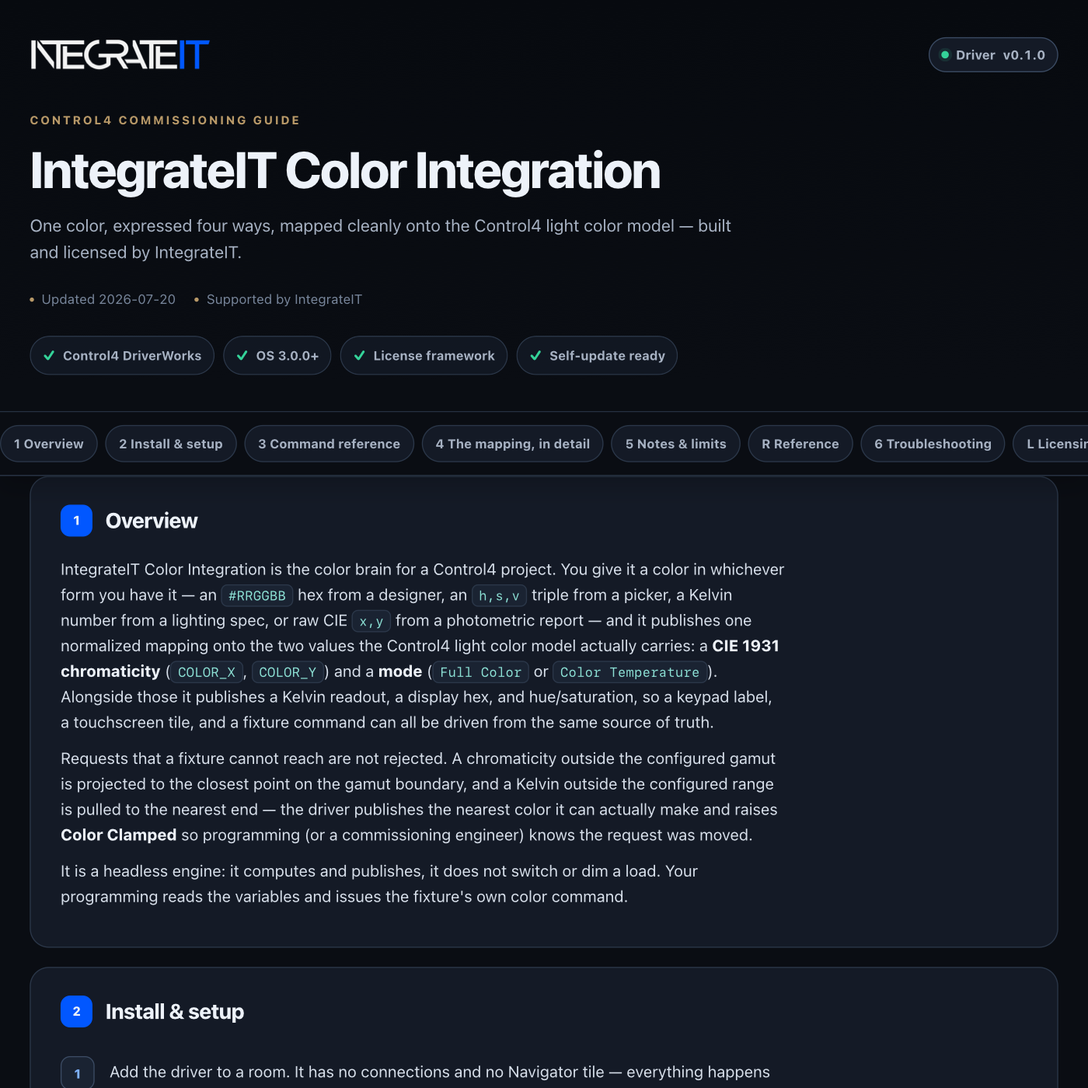
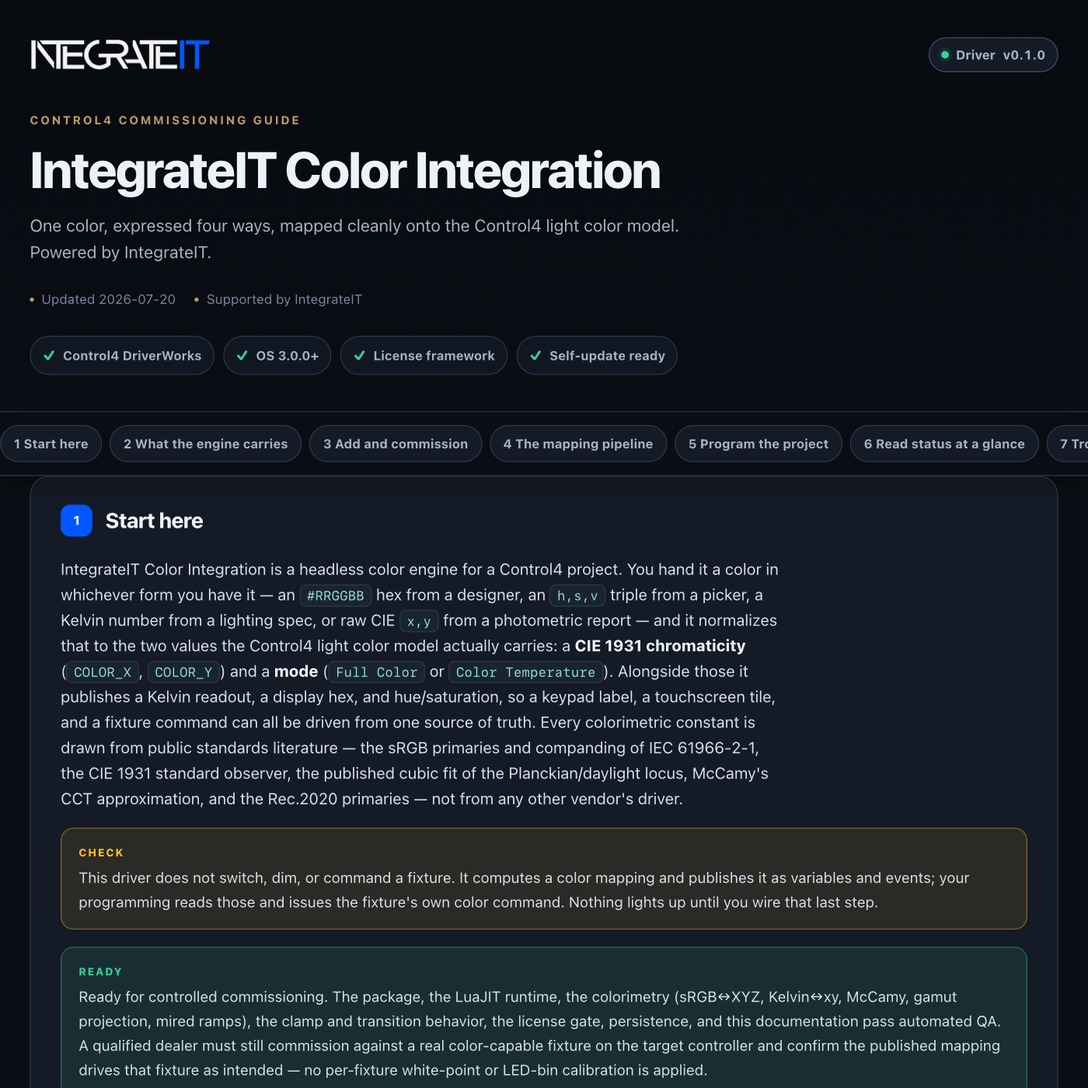
control4: publish driver channel (integrateit_color_integration 0.1.1)

diff --git a/control4/integrateit_color_integration/documentation.html b/control4/integrateit_color_integration/documentation.html
@@ -179,13 +179,13 @@ td code{white-space:normal}
     <div class="wrap">
       <div class="brandbar">
[1 lines of base64/hex data omitted]
-        <span class="version"><span class="word">Driver</span> v0.1.0</span>
+        <span class="version"><span class="word">Driver</span> v0.1.1</span>
       </div>
       <p class="eyebrow">Control4 commissioning guide</p>
       <h1>IntegrateIT Color Integration</h1>
-      <p class="sub">One color, expressed four ways, mapped cleanly onto the Control4 light color model — built and licensed by IntegrateIT.</p>
+      <p class="sub">One color, expressed four ways, mapped cleanly onto the Control4 light color model. Powered by IntegrateIT.</p>
       <div class="meta">
-        <span>Updated 2026-07-20</span>
+        <span>Updated 2026-07-26</span>
         <span>Supported by IntegrateIT</span>
       </div>
       <div class="readiness" aria-label="Driver capabilities">
@@ -198,69 +198,142 @@ td code{white-space:normal}
   </header>
 
   <div class="toc-wrap">
-    <nav class="toc wrap" aria-label="Documentation sections"><a href="#overview">1 Overview</a><a href="#install">2 Install &amp; setup</a><a href="#commands">3 Command reference</a><a href="#mapping">4 The mapping, in detail</a><a href="#notes">5 Notes &amp; limits</a><a href="#reference">R Reference</a><a href="#troubleshooting">6 Troubleshooting</a><a href="#licensing">L Licensing</a><a href="#updates">U Automatic updates</a><a href="#changelog">V Version history</a></nav>
+    <nav class="toc wrap" aria-label="Documentation sections"><a href="#overview">1 Start here</a><a href="#contract">2 What the engine carries</a><a href="#setup">3 Add and commission</a><a href="#mapping">4 The mapping pipeline</a><a href="#programming">5 Program the project</a><a href="#status">6 Read status at a glance</a><a href="#troubleshooting">7 Troubleshoot methodically</a><a href="#trust">8 Ownership, privacy, and licensing</a><a href="#reference">R Reference</a><a href="#licensing">L Licensing</a><a href="#updates">U Automatic updates</a><a href="#changelog">V Version history</a></nav>
   </div>
 
   <main class="wrap">
     <section class="card" id="overview" data-card="overview">
-  <h2><span class="n">1</span> Overview</h2>
-  <p>IntegrateIT Color Integration is the color brain for a Control4 project. You give it a color in whichever form you have it — an <code>#RRGGBB</code> hex from a designer, an <code>h,s,v</code> triple from a picker, a Kelvin number from a lighting spec, or raw CIE <code>x,y</code> from a photometric report — and it publishes one normalized mapping onto the two values the Control4 light color model actually carries: a <b>CIE 1931 chromaticity</b> (<code>COLOR_X</code>, <code>COLOR_Y</code>) and a <b>mode</b> (<code>Full Color</code> or <code>Color Temperature</code>). Alongside those it publishes a Kelvin readout, a display hex, and hue/saturation, so a keypad label, a touchscreen tile, and a fixture command can all be driven from the same source of truth.</p>
-  <p>Requests that a fixture cannot reach are not rejected. A chromaticity outside the configured gamut is projected to the closest point on the gamut boundary, and a Kelvin outside the configured range is pulled to the nearest end — the driver publishes the nearest color it can actually make and raises <b>Color Clamped</b> so programming (or a commissioning engineer) knows the request was moved.</p>
-  <p>It is a headless engine: it computes and publishes, it does not switch or dim a load. Your programming reads the variables and issues the fixture's own color command.</p>
+  <h2><span class="n">1</span> Start here</h2>
+  <p>IntegrateIT Color Integration is a headless color engine for a Control4 project. You hand it a color in whichever form you have it — an <code>#RRGGBB</code> hex from a designer, an <code>h,s,v</code> triple from a picker, a Kelvin number from a lighting spec, or raw CIE <code>x,y</code> from a photometric report — and it normalizes that to the two values the Control4 light color model actually carries: a <b>CIE 1931 chromaticity</b> (<code>COLOR_X</code>, <code>COLOR_Y</code>) and a <b>mode</b> (<code>Full Color</code> or <code>Color Temperature</code>). Alongside those it publishes a Kelvin readout, a display hex, and hue/saturation, so a keypad label, a touchscreen tile, and a fixture command can all be driven from one source of truth. Every colorimetric constant is drawn from public standards literature — the sRGB primaries and companding of IEC 61966-2-1, the CIE 1931 standard observer, the published cubic fit of the Planckian/daylight locus, McCamy's CCT approximation, and the Rec.2020 primaries — not from any other vendor's driver.</p>
+  <div class="note warn">This driver does not switch, dim, or command a fixture. It computes a color mapping and publishes it as variables and events; your programming reads those and issues the fixture's own color command. Nothing lights up until you wire that last step.</div>
+  <div class="note good">Ready for controlled commissioning. The package, the LuaJIT runtime, the colorimetry (sRGB↔XYZ, Kelvin↔xy, McCamy, gamut projection, mired ramps), the clamp and transition behavior, the license gate, persistence, and this documentation pass automated QA. A qualified dealer must still commission against a real color-capable fixture on the target controller and confirm the published mapping drives that fixture as intended — no per-fixture white-point or LED-bin calibration is applied.</div>
+  <p><b>What you get</b></p>
+  <ul>
+    <li>Four input forms — RGB hex, HSV, Kelvin, or CIE 1931 xy — normalized to one canonical color</li>
+    <li>The Control4 light color parameters published as variables: <code>COLOR_X</code> / <code>COLOR_Y</code> chromaticity plus a <code>Full Color</code> or <code>Color Temperature</code> mode</li>
+    <li>Gamut mapping into <code>sRGB</code>, a wide (Rec.2020-style) triangle, or <code>Clamp Only</code>, with out-of-gamut requests projected to the nearest reachable point instead of dropped</li>
+    <li>A configurable Kelvin floor and ceiling so a fixture is never asked for a white it cannot make</li>
+    <li>Bounded transitions (max 120 published steps) that ramp color-temperature pairs in mired so the fade reads even, and everything else linearly in xy</li>
+    <li>Warmer / Cooler Kelvin nudges for color-temperature scenes</li>
+    <li>The last applied color persisted across a controller reboot and republished silently at boot</li>
+    <li>MAC-locked IntegrateIT licensing with lenient or strict enforcement</li>
+  </ul>
 </section>
 
-<section class="card" id="install" data-card="install">
-  <h2><span class="n">2</span> Install &amp; setup</h2>
+<section class="card" id="contract" data-card="contract">
+  <h2><span class="n">2</span> What the engine carries</h2>
+  <p>The engine carries <b>chromaticity, not brightness</b>, and it never invents a color it cannot produce.</p>
+  <ul>
+    <li><code>COLOR_RGB</code> is the brightest RGB with the published chromaticity — a readout for labels and tiles, not a light level. Keep level on your dimmer; feeding <code>COLOR_RGB</code> to a load as a brightness would wash the color out.</li>
+    <li>A request the configuration cannot reach is <b>moved, never rejected</b>. A chromaticity outside the selected gamut is projected to the closest point on the gamut boundary; a Kelvin outside <code>Minimum Kelvin</code>…<code>Maximum Kelvin</code> is pulled to the nearest end. Either way the driver publishes the nearest color it can actually make and raises <b>Color Clamped</b> with <code>COLOR_CLAMPED = 1</code>, so programming knows the request was moved.</li>
+    <li><code>COLOR_KELVIN</code> is exact for a Kelvin input and <b>approximated</b> for every other input, derived from the mapped chromaticity by McCamy's fit. Round-tripping a Kelvin value through xy and back can differ by a few kelvin, and correlated color temperature is only meaningful near the Planckian locus — a saturated blue will report a number, and that number means very little. Anything claiming a precise Kelvin for an arbitrary color would be faking it.</li>
+    <li>Unreadable input is a <b>no-op</b>. The driver raises <b>Invalid Color Input</b>, writes the reason to <code>Status</code>, and leaves the published color exactly where it was — a typo in Composer never blanks a lit room.</li>
+    <li><code>Wide</code> is a generic Rec.2020-style triangle, not a measured profile of your fixture. With real measured primaries, <code>Clamp Only</code> plus your own programming may map more faithfully.</li>
+  </ul>
+</section>
+
+<section class="card" id="setup" data-card="setup">
+  <h2><span class="n">3</span> Add and commission</h2>
+  <p>The driver has no connections and no Navigator tile — everything happens through properties, variables, and events.</p>
   <ol class="steps">
-    <li>Add the driver to a room. It has no connections and no Navigator tile — everything happens through properties, variables, and events.</li>
-    <li>Set <code>Color Input Mode</code> to the form you will write colors in, and put the first color in <code>Color Input</code>: - <b>RGB Hex</b> — <code>#FF8C42</code> (the leading <code>#</code> is optional) - <b>HSV</b> — <code>24,74,100</code> (hue 0-360, saturation 0-100, value 0-100) - <b>Kelvin</b> — <code>2700</code> (a trailing <code>K</code> is accepted) - <b>CIE xy</b> — <code>0.4578,0.4101</code></li>
-    <li>Set <code>Gamut</code> to the triangle your fixtures live in. <code>sRGB</code> suits most LED tape and RGB fixtures; <code>Wide</code> uses Rec.2020-style primaries for wide-gamut engines; <code>Clamp Only</code> skips the triangle entirely and just keeps x and y inside 0-1.</li>
-    <li>Set <code>Minimum Kelvin</code> / <code>Maximum Kelvin</code> to what the fixture can actually produce. Tunable-white tape is often 2200-6500K; a fixed-white fixture that only claims 2700K should have both ends set near it.</li>
-    <li>Set <code>Transition Time (ms)</code> and <code>Transition Step (ms)</code>. 1000 ms in 200 ms steps is a good default: five published steps per fade. The driver lengthens the step interval by itself if your numbers would ask for more than 120 steps.</li>
-    <li>Leave <code>Apply On Input Change</code> on <b>Yes</b> while you commission — every edit to <code>Color Input</code> applies immediately. Set it to <b>No</b> when programming should own the timing and call <b>Apply Color</b> itself.</li>
-    <li>In Programming, react to <b>Color Applied</b> and read <code>COLOR_X</code> / <code>COLOR_Y</code> / <code>COLOR_MODE</code> (plus <code>COLOR_KELVIN</code> for tunable white), then send those to your fixture with its own color command.</li>
+    <li>Add <b>IntegrateIT Color Integration</b> to a room.</li>
+    <li>Set <b>Color Input Mode</b> to the form you will write colors in, and put the first color in <b>Color Input</b>: - <b>RGB Hex</b> — <code>#FF8C42</code> (the leading <code>#</code> is optional) - <b>HSV</b> — <code>24,74,100</code> (hue 0-360, saturation 0-100, value 0-100) - <b>Kelvin</b> — <code>2700</code> (a trailing <code>K</code> is accepted) - <b>CIE xy</b> — <code>0.4578,0.4101</code></li>
+    <li>Set <b>Gamut</b> to the triangle your fixtures live in. <code>sRGB</code> suits most LED tape and RGB fixtures; <code>Wide</code> uses Rec.2020-style primaries for wide-gamut engines; <code>Clamp Only</code> skips the triangle and holds x and y on the CIE simplex.</li>
+    <li>Set <b>Minimum Kelvin</b> / <b>Maximum Kelvin</b> to what the fixture can actually produce. Tunable-white tape is often 2200-6500K; a fixed-white fixture should have both ends set near its rating. Invert the two by accident and the driver swaps them rather than clamping every request onto one value.</li>
+    <li>Set <b>Transition Time (ms)</b> and <b>Transition Step (ms)</b>. 1000 ms in 200 ms steps is a good default — five published steps per fade. The driver lengthens the step interval itself if your numbers would ask for more than 120 steps.</li>
+    <li>Leave <b>Apply On Input Change</b> on <code>Yes</code> while you commission so every edit to <b>Color Input</b> applies immediately. Set it to <code>No</code> when programming should own the timing and call <b>Apply Color</b> itself.</li>
+    <li>Fire <b>Apply Color</b>, then confirm <b>Current Mapping</b> fills in and <code>COLOR_X</code> / <code>COLOR_Y</code> / <code>COLOR_MODE</code> update. Wire your fixture's color command to the <b>Color Applied</b> event and watch the light follow.</li>
   </ol>
-</section>
-
-<section class="card" id="commands" data-card="commands">
-  <h2><span class="n">3</span> Command reference</h2>
-  <table>
-    <tr><th>Action</th><th>What it does</th></tr>
-    <tr><td>Apply Color</td><td>Map <code>Color Input</code> and ramp to it over <code>Transition Time (ms)</code>.</td></tr>
-    <tr><td>Apply Color Immediately</td><td>Same mapping, published in one step with no fade.</td></tr>
-    <tr><td>Cancel Transition</td><td>Stop a running fade and leave the color on the step it reached.</td></tr>
-    <tr><td>Warmer / Cooler</td><td>Move the published color along the Kelvin axis by <code>Kelvin Nudge Step</code>, switching the mapping to Color Temperature.</td></tr>
-    <tr><td>Print Configuration</td><td>Print the input, gamut, Kelvin range, transition settings, and the current mapping to the Lua output window.</td></tr>
-  </table>
-  <p><b>Events:</b> *Color Applied*, *Transition Started*, *Transition Complete*, *Color Clamped*, *Invalid Color Input*. <b>Variables:</b> <code>COLOR_X</code>, <code>COLOR_Y</code>, <code>COLOR_MODE</code>, <code>COLOR_KELVIN</code>, <code>COLOR_RGB</code>, <code>COLOR_HUE</code>, <code>COLOR_SATURATION</code>, <code>COLOR_CLAMPED</code>, <code>TRANSITION_ACTIVE</code>.</p>
 </section>
 
 <section class="card" id="mapping" data-card="mapping">
-  <h2><span class="n">4</span> The mapping, in detail</h2>
-  <p>Every constant in the pipeline comes from public standards literature — the sRGB (IEC 61966-2-1) primaries and companding curve, the CIE 1931 standard observer, the published piecewise cubic fit of the Planckian/daylight locus, McCamy's CCT approximation, and the Rec.2020 primaries. Nothing here depends on any other manufacturer's driver conventions.</p>
+  <h2><span class="n">4</span> The mapping pipeline</h2>
+  <p>Every apply runs the same five stages; understanding them explains any clamp or fade you see in Debug.</p>
   <ol class="steps">
-    <li><b>Parse.</b> The input string is read in the selected mode. Hex and HSV become 0-1 RGB; Kelvin is clamped into <code>Minimum Kelvin</code>…<code>Maximum Kelvin</code>; CIE xy is taken as written.</li>
-    <li><b>To xy.</b> RGB is inverse-companded to linear light, multiplied through the sRGB D65 matrix into CIE XYZ, and normalized to <code>x = X/(X+Y+Z)</code>, <code>y = Y/(X+Y+Z)</code>. Kelvin goes straight to xy on the locus fit.</li>
-    <li><b>Gamut.</b> The point is tested against the three primaries. If it is outside, it is projected to the closest point on the nearest triangle edge — the shortest move that reaches a producible color — and <code>COLOR_CLAMPED</code> is set with the <b>Color Clamped</b> event.</li>
+    <li><b>Parse.</b> The input string is read in the selected mode. Hex and HSV become 0-1 RGB; a Kelvin value is clamped into <code>Minimum Kelvin</code>…<code>Maximum Kelvin</code>; CIE xy is taken as written.</li>
+    <li><b>To xy.</b> RGB is inverse-companded to linear light, multiplied through the sRGB/D65 matrix into CIE XYZ, and normalized to <code>x = X/(X+Y+Z)</code>, <code>y = Y/(X+Y+Z)</code>. A Kelvin value goes straight to xy on the locus fit. Pure black has no chromaticity, so it reports the D65 white point rather than dividing by zero.</li>
+    <li><b>Gamut.</b> The point is tested against the three primaries. If it is outside, it is projected to the closest point on the nearest triangle edge — the shortest move to a producible color — and <code>COLOR_CLAMPED</code> is set with <b>Color Clamped</b>. <code>Clamp Only</code> instead holds the point on the CIE simplex (<code>x ≥ 0</code>, <code>y ≥ 0</code>, <code>x + y ≤ 1</code>); a coordinate past <code>x + y = 1</code> is projected onto that edge, because it is not a real color at all.</li>
     <li><b>Mode and Kelvin.</b> A Kelvin input publishes <code>Color Temperature</code> mode and its (clamped) Kelvin. Hex, HSV, and xy inputs publish <code>Full Color</code> mode with a Kelvin readout derived from the mapped chromaticity via McCamy.</li>
-    <li><b>Transition.</b> Two color-temperature endpoints interpolate in <b>mired</b> (reciprocal megakelvin), which is the scale color temperature spaces evenly on, so a 2700K → 6500K fade does not bunch up at the cool end. Every other pair interpolates linearly in xy. The final step always publishes the exact target rather than an interpolation of it.</li>
+    <li><b>Transition.</b> Two color-temperature endpoints interpolate in <b>mired</b> (reciprocal megakelvin), the scale color temperature is even on, so a 2700K → 6500K fade does not bunch at the cool end. Every other pair interpolates linearly in xy. The final step always publishes the exact target, never an interpolation of it.</li>
   </ol>
+  <p>Editing <b>Gamut</b>, <b>Minimum Kelvin</b>, or <b>Maximum Kelvin</b> re-maps the already-published color through the new constraints instantly and without a fade. If the re-map lands on the same color, nothing is published and no event fires. A live edit made mid-fade re-aims both ramp endpoints through the new constraints rather than abandoning the fade, so the ramp still delivers the requested color.</p>
 </section>
 
-<section class="card" id="notes" data-card="notes">
-  <h2><span class="n">5</span> Notes &amp; limits</h2>
+<section class="card" id="programming" data-card="programming">
+  <h2><span class="n">5</span> Program the project</h2>
+  <table>
+    <tr><th>Action</th><th>What it does</th></tr>
+    <tr><td>Apply Color</td><td>Map <b>Color Input</b> and ramp to it over <b>Transition Time (ms)</b></td></tr>
+    <tr><td>Apply Color Immediately</td><td>Same mapping, published in one step with no fade</td></tr>
+    <tr><td>Cancel Transition</td><td>Stop a running fade and hold the color on the step it reached</td></tr>
+    <tr><td>Warmer / Cooler</td><td>Move the published color along the Kelvin axis by <b>Kelvin Nudge Step</b>, switching to <code>Color Temperature</code> mode</td></tr>
+    <tr><td>Print Configuration</td><td>Print the input, gamut, Kelvin range, transition settings, and current mapping to the Lua output window</td></tr>
+  </table>
+  <table>
+    <tr><th>Event</th><th>Fires when</th></tr>
+    <tr><td>Color Applied</td><td>A color finished publishing; the <code>COLOR_</code> variables hold the final mapping</td></tr>
+    <tr><td>Transition Started</td><td>A ramp to a new color began</td></tr>
+    <tr><td>Transition Complete</td><td>A ramp reached its target color</td></tr>
+    <tr><td>Color Clamped</td><td>The request fell outside the gamut or Kelvin range and was mapped to the nearest reachable color</td></tr>
+    <tr><td>Invalid Color Input</td><td><b>Color Input</b> could not be parsed in the selected mode; nothing was published</td></tr>
+  </table>
+  <table>
+    <tr><th>Variable</th><th>Type</th><th>Meaning</th></tr>
+    <tr><td><code>COLOR_X</code> / <code>COLOR_Y</code></td><td>STRING</td><td>The CIE 1931 chromaticity to send to the fixture, 4 decimals</td></tr>
+    <tr><td><code>COLOR_MODE</code></td><td>STRING</td><td><code>Full Color</code> or <code>Color Temperature</code></td></tr>
+    <tr><td><code>COLOR_KELVIN</code></td><td>NUMBER</td><td>Correlated color temperature — exact for Kelvin inputs, McCamy-approximated otherwise</td></tr>
+    <tr><td><code>COLOR_RGB</code></td><td>STRING</td><td>Display hex at full relative luminance (a readout, not a level)</td></tr>
+    <tr><td><code>COLOR_HUE</code> / <code>COLOR_SATURATION</code></td><td>NUMBER</td><td>Hue 0-359 and saturation 0-100 of the display color</td></tr>
+    <tr><td><code>COLOR_CLAMPED</code></td><td>BOOL</td><td>The published color was moved to reach a producible one</td></tr>
+    <tr><td><code>TRANSITION_ACTIVE</code></td><td>BOOL</td><td>A ramp is publishing steps right now</td></tr>
+  </table>
+  <p>Recipes:</p>
   <ul>
-    <li>The engine carries <b>chromaticity, not brightness</b>. <code>COLOR_RGB</code> is the brightest RGB with the published chromaticity — a readout for labels and tiles, not a dim level. Keep level on your dimmer.</li>
-    <li>Kelvin and chromaticity are not perfectly reversible. Feeding <code>2700</code> in and reading <code>COLOR_KELVIN</code> back can differ by a few kelvin, and correlated color temperature is only meaningful for colors near the Planckian locus — a saturated blue will report a number, and that number means very little.</li>
-    <li>Unreadable input is a no-op: the driver raises <b>Invalid Color Input</b>, writes the reason to <code>Status</code>, and leaves the published color exactly where it was. A typo in Composer never blanks a lit room.</li>
-    <li>Editing <code>Gamut</code>, <code>Minimum Kelvin</code>, or <code>Maximum Kelvin</code> re-maps the already-published color through the new constraints, instantly and without a fade. If the re-map lands on the same color, nothing is published and no event fires.</li>
-    <li><b>Cancel Transition</b> leaves the color on the step the fade reached, which is a real, in-gamut color. It does not snap to either endpoint.</li>
-    <li>The last applied color is written to persistent storage and republished on boot when <code>Restore Last Color on Boot</code> is <b>Yes</b>. The restore fires no events — programming bound to <b>Color Applied</b> does not re-run on every controller restart.</li>
-    <li><code>Wide</code> is a generic Rec.2020-style triangle, not a measured profile of your fixture. If you have real measured primaries, <code>Clamp Only</code> plus your own programming may map more faithfully.</li>
+    <li><b>Warm scene:</b> set <b>Color Input Mode</b> to <code>Kelvin</code>, write <code>2700</code> to <b>Color Input</b>, fire <b>Apply Color</b>. On <b>Color Applied</b>, read <code>COLOR_X</code> / <code>COLOR_Y</code> / <code>COLOR_MODE</code> / <code>COLOR_KELVIN</code> and send them with the fixture's own color command.</li>
+    <li><b>Keypad warmer/cooler:</b> bind two keypad buttons to the <b>Warmer</b> and <b>Cooler</b> actions and label the keypad from <code>COLOR_KELVIN</code>. Each press nudges by <b>Kelvin Nudge Step</b> and re-fires <b>Color Applied</b>.</li>
+    <li><b>Touchscreen swatch:</b> with <b>Apply On Input Change</b> at <code>Yes</code> and mode <code>RGB Hex</code>, write the picked hex to <b>Color Input</b>; the tile reflects <code>COLOR_RGB</code> and a "not reachable" badge can key off <code>COLOR_CLAMPED</code>.</li>
   </ul>
+  <p>Every control path is gated by the license: under Strict enforcement an unlicensed controller publishes no color at all. Lenient mode allows commissioning while <code>License Status</code> carries the nag.</p>
+</section>
+
+<section class="card" id="status" data-card="status">
+  <h2><span class="n">6</span> Read status at a glance</h2>
+  <table>
+    <tr><th>Readout</th><th>Means</th><th>Automating on it</th></tr>
+    <tr><td><code>Current Color</code></td><td>Published hex plus mode</td><td>Display only</td></tr>
+    <tr><td><code>Current Mapping</code></td><td>Published xy, mode, and Kelvin</td><td>Display only</td></tr>
+    <tr><td><code>Gamut Status</code></td><td><code>In gamut (&lt;gamut&gt;)</code> or <code>Clamped to the &lt;gamut&gt; boundary / Kelvin range</code></td><td>Human-readable mirror of <code>COLOR_CLAMPED</code></td></tr>
+    <tr><td><code>COLOR_MODE</code></td><td><code>Full Color</code> or <code>Color Temperature</code></td><td>Selects which fixture color command to send</td></tr>
+    <tr><td><code>COLOR_X</code> / <code>COLOR_Y</code></td><td>The chromaticity to send</td><td>The two values a fixture color command needs</td></tr>
+    <tr><td><code>COLOR_KELVIN</code></td><td>The published CCT</td><td>Trust it only near the locus (Kelvin inputs, or whites)</td></tr>
+    <tr><td><code>COLOR_CLAMPED</code></td><td><code>1</code> = the published color is not the exact request</td><td>Gate "was the request reachable?" logic on this</td></tr>
+    <tr><td><code>TRANSITION_ACTIVE</code></td><td><code>1</code> = a fade is running</td><td>Wait for <b>Transition Complete</b> before reading a settled color</td></tr>
+  </table>
+  <p><b>Cancel Transition</b> leaves the color on the step the fade reached, which is a real, in-gamut color — it does not snap to either endpoint. The last applied color is written to persistent storage and, when <b>Restore Last Color on Boot</b> is <code>Yes</code>, republished on boot; that restore fires no events, so programming bound to <b>Color Applied</b> does not re-run on every controller restart. A restore is re-mapped through whatever gamut and Kelvin window are in force now, so a color saved under a wider setting still reports its true clamp state.</p>
+</section>
+
+<section class="card" id="troubleshooting" data-card="troubleshooting">
+  <h2><span class="n">7</span> Troubleshoot methodically</h2>
+  <table>
+    <tr><th>Symptom</th><th>Likely cause</th><th>Fix</th></tr>
+    <tr><td>Nothing is published at all</td><td>Strict enforcement without a key</td><td>Check <code>License Status</code>; Lenient mode keeps the engine running without a key</td></tr>
+    <tr><td><code>Status</code> says Invalid Color Input</td><td>The string does not match <b>Color Input Mode</b></td><td>Match the form: <code>#RRGGBB</code>, <code>h,s,v</code>, a bare Kelvin integer, or <code>x,y</code></td></tr>
+    <tr><td>Every color reports clamped</td><td>Gamut too small for the requests, or an inverted Kelvin range</td><td>Try <code>Wide</code> or <code>Clamp Only</code>; confirm <b>Minimum Kelvin</b> is below <b>Maximum Kelvin</b></td></tr>
+    <tr><td>Warm and cool ends look identical</td><td><b>Minimum Kelvin</b> and <b>Maximum Kelvin</b> are close together</td><td>Widen the range to what the fixture really produces</td></tr>
+    <tr><td>The fade looks like a jump</td><td>Programming applies the color only on <b>Color Applied</b></td><td>React to the variables changing each step, or bind the fixture command to fire per published step</td></tr>
+    <tr><td><code>COLOR_KELVIN</code> looks wrong for a vivid color</td><td>CCT is meaningless off the Planckian locus</td><td>Read chromaticity (<code>COLOR_X</code> / <code>COLOR_Y</code>) for saturated colors, not Kelvin</td></tr>
+  </table>
+  <div class="note">Turn on <b>Debug Mode → Print</b>, then run <b>Print Configuration</b> to dump the input, gamut, Kelvin range, transition math, and current mapping to the Lua output window. If a fixture still will not track the mapping, contact support@integrateit.tech · (913) 804-7575.</div>
+</section>
+
+<section class="card" id="trust" data-card="trust">
+  <h2><span class="n">8</span> Ownership, privacy, and licensing</h2>
+  <p>This package is an original IntegrateIT implementation. The colorimetry is built entirely from public standards literature (sRGB / IEC 61966-2-1, the CIE 1931 observer, the published Kelvin-to-xy cubic, McCamy's CCT approximation, Rec.2020 primaries); the property, variable, action, and event names are IntegrateIT's own. It does not bundle another vendor's runtime, source code, brand assets, or license. Driver engineering, Control4 integration, documentation, QA, licensing, updates, and support are provided by IntegrateIT.</p>
+  <p>The color engine is pure on-controller computation: your colors, mapping, and project data never leave the controller. The shared IntegrateIT license and update services use the controller identity, driver slug, version, configured license key, and update channel as documented in the reference below; the license key is never written to the log.</p>
+  <p>Lenient mode allows commissioning without an activated key and keeps <code>License Status</code> visible. Strict mode blocks every color control path until the Ops Portal has minted and validated a key for that controller. Installing this package does not itself mint or activate a controller license.</p>
 <section class="card" id="reference" data-card="reference">
   <h2><span class="n">R</span> Reference</h2>
-  <p>Generated from the driver manifest at build time — always matches this build (v0.1.0).</p>
+  <p>Generated from the driver manifest at build time — always matches this build (v0.1.1).</p>
   <h3>Properties</h3>
   <table>
     <tr><th>Property</th><th>Type</th><th>Default</th><th>Description</th></tr>
@@ -319,19 +392,6 @@ td code{white-space:normal}
   </table>
 </section>
 </section>
-
-<section class="card" id="troubleshooting" data-card="troubleshooting">
-  <h2><span class="n">6</span> Troubleshooting</h2>
-  <table>
-    <tr><th>Symptom</th><th>Likely cause</th><th>Fix</th></tr>
-    <tr><td><code>Status</code> says Invalid Color Input</td><td>The string does not match the selected <code>Color Input Mode</code></td><td>Check the form: <code>#RRGGBB</code>, <code>h,s,v</code>, a bare Kelvin integer, or <code>x,y</code>.</td></tr>
-    <tr><td>Every color reports clamped</td><td>Gamut too small for the requests, or an inverted Kelvin range</td><td>Try <code>Wide</code> or <code>Clamp Only</code>; confirm <code>Minimum Kelvin</code> is below <code>Maximum Kelvin</code>.</td></tr>
-    <tr><td>Warm and cool ends look identical</td><td><code>Minimum Kelvin</code> and <code>Maximum Kelvin</code> are close together</td><td>Widen the range to what the fixture really produces.</td></tr>
-    <tr><td>The fade looks like a jump</td><td>Programming applies the color only on <b>Color Applied</b></td><td>React to the variables changing (or poll on your own timer) so each published step reaches the fixture.</td></tr>
-    <tr><td>Nothing is published at all</td><td>Strict enforcement + unlicensed</td><td>Check <code>License Status</code>; Lenient mode keeps control enabled without a key.</td></tr>
-  </table>
-  <div class="note">Turn on <code>Debug Mode → Print</code>, then run <b>Print Configuration</b> to dump the input, gamut, Kelvin range, transition math, and the current mapping to the Lua output window.</div>
-</section>
 <section class="card" id="licensing" data-card="licensing">
   <h2><span class="n">L</span> Licensing</h2>
   <p>This driver is licensed <b>per controller</b>. Each license key locks to one controller's
@@ -379,7 +439,9 @@ td code{white-space:normal}
     <section class="card" id="changelog" data-card="changelog">
   <h2><span class="n">V</span> Version history</h2>
   <div class="chg">
-    <div class="rel"><b>v0.1.0</b> <span class="pill green">current</span><span class="d">2026-07-20</span>
+    <div class="rel"><b>v0.1.1</b> <span class="pill green">current</span><span class="d">2026-07-26</span>
+      <ul><li>Documentation rebuilt to the IntegrateIT commissioning-guide standard: uniform sections, honest contracts, verified claim-by-claim against the code.</li></ul></div>
+    <div class="rel"><b>v0.1.0</b><span class="d">2026-07-20</span>
       <ul><li>First cut of the color engine. Original color-space specification and Control4 light-proxy mapping: four input forms (RGB hex, HSV, Kelvin, CIE xy) normalized to a CIE 1931 chromaticity plus a Full Color / Color Temperature mode.</li><li>Gamut mapping into sRGB, a Rec.2020-style wide triangle, or clamp-only, with out-of-gamut requests projected to the closest point on the gamut boundary and a `Color Clamped` event rather than a dropped request.</li><li>Configurable Kelvin floor/ceiling; requests outside it are pulled to the nearest reachable white and reported as clamped.</li><li>Bounded transitions (max 120 published steps) with mired interpolation between two color-temperature endpoints and xy interpolation everywhere else; the final step publishes the exact target. `Cancel Transition` holds the reached step.</li><li>Warmer / Cooler Kelvin nudges, instant apply, auto-apply on input change, and a silent re-map when gamut or Kelvin bounds are edited live.</li><li>Last applied color persists across a controller reboot and is republished at boot without firing events.</li><li>Every control path gated on `LicenseGate()`.</li><li>`remapCurrent` (the live Gamut / Kelvin-bound edit) is a control path — it republishes the color and fires `Color Applied` — but was NOT gated. A Strict-unlicensed controller could be driven from the Gamut dropdown even though `Apply Color` was correctly blocked. Now gated.</li><li>A live Gamut / Kelvin edit DURING a fade cancelled the ramp and stranded the light on whatever intermediate color it had reached; the requested color never arrived. The ramp is now re-aimed through the new constraints (both endpoints re-mapped, so every remaining step stays inside the new triangle) and runs to completion.</li><li>A re-map that landed on the already-published color wrote `COLOR_CLAMPED = 0`, so an unrelated Kelvin-bound nudge silently cleared a clamp flag that was still true and handed programming a false "in gamut". The no-op path is now genuinely silent, as documented.</li><li>The boot restore republished the persisted color verbatim. If the gamut or Kelvin window was narrowed while the controller was down, that put an unreachable chromaticity on the variables and reported it as in gamut. The restore is now re-mapped through the current constraints, with the clamp state recorded silently (still no events).</li><li>`Clamp Only` clamped x and y independently and so accepted impossible chromaticities: x + y &gt; 1 implies a negative z, and (0.9, 0.9) sailed through unflagged into the XYZ-&gt;RGB matrix, which fabricated a hex for a color that does not exist. The point is now projected onto the CIE simplex edge (x + y = 1) and flagged as clamped.</li></ul></div>
   </div>
 </section>

diff --git a/control4/integrateit_color_integration/CHANGELOG.md b/control4/integrateit_color_integration/CHANGELOG.md
@@ -1,5 +1,8 @@
 # Changelog — IntegrateIT Color Integration
 
+## [0.1.1] - 2026-07-26
+- Documentation rebuilt to the IntegrateIT commissioning-guide standard: uniform sections, honest contracts, verified claim-by-claim against the code.
+
 ## [0.1.0] - 2026-07-20
 - First cut of the color engine. Original color-space specification and Control4
   light-proxy mapping: four input forms (RGB hex, HSV, Kelvin, CIE xy) normalized
